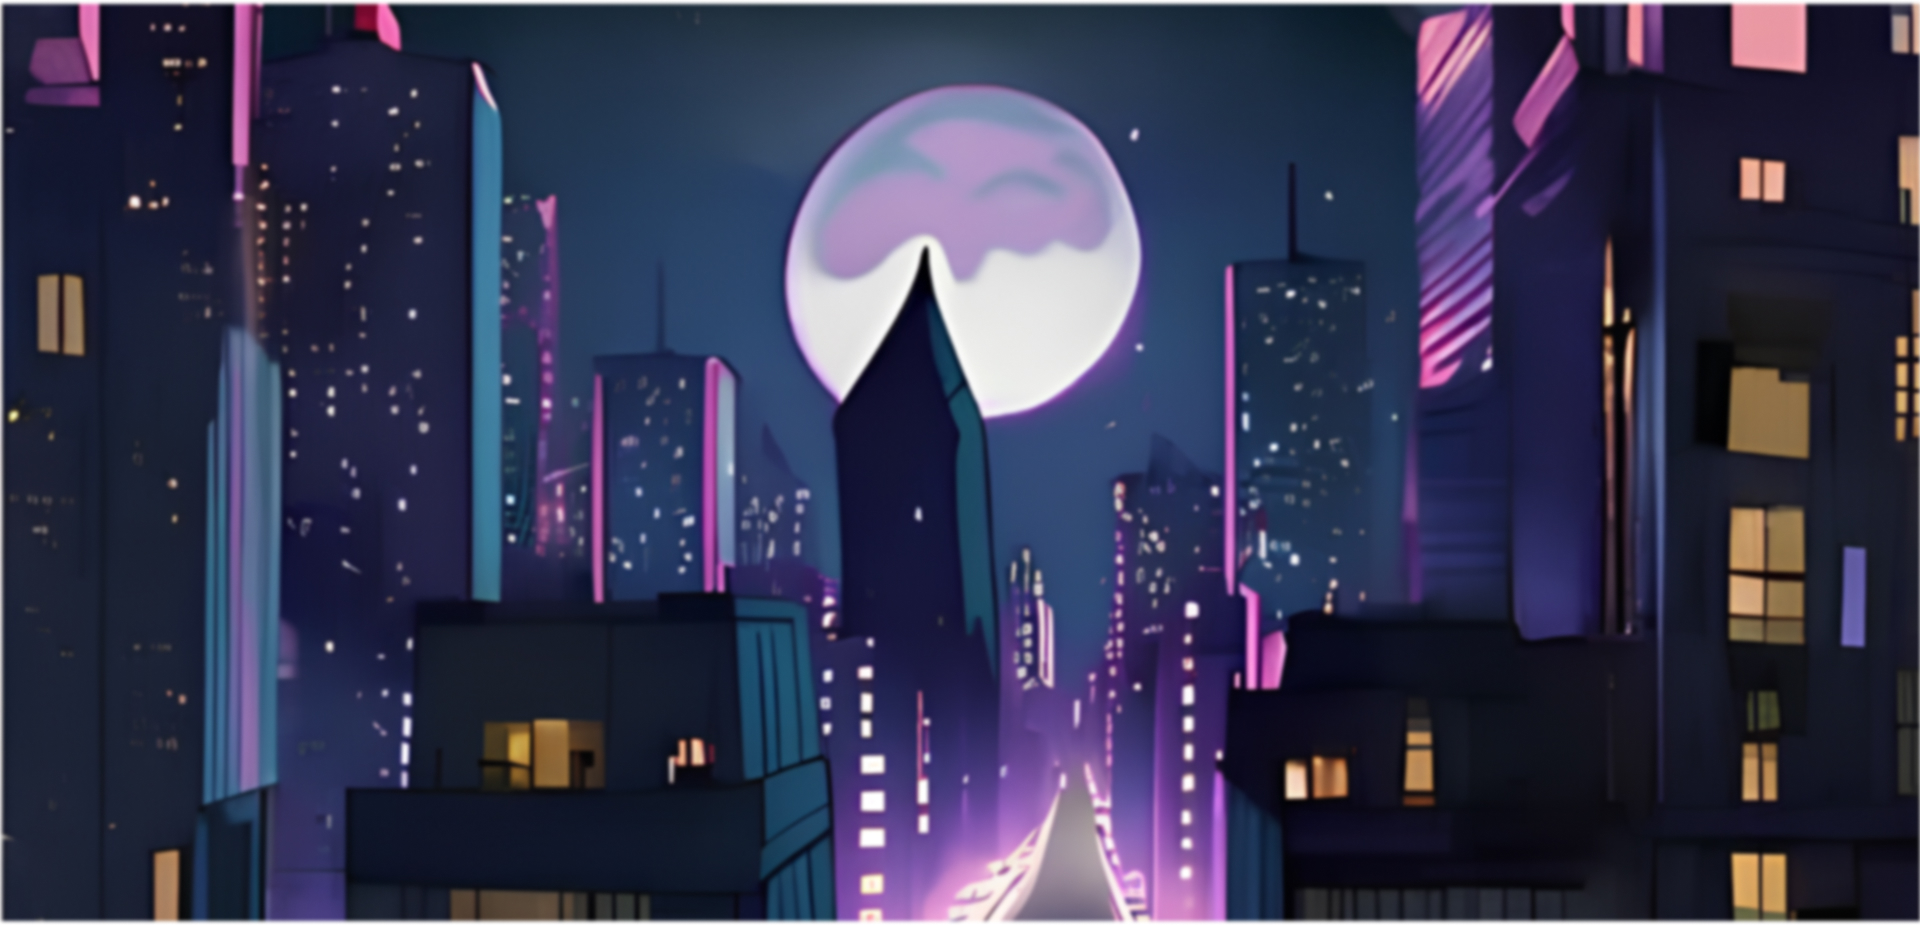
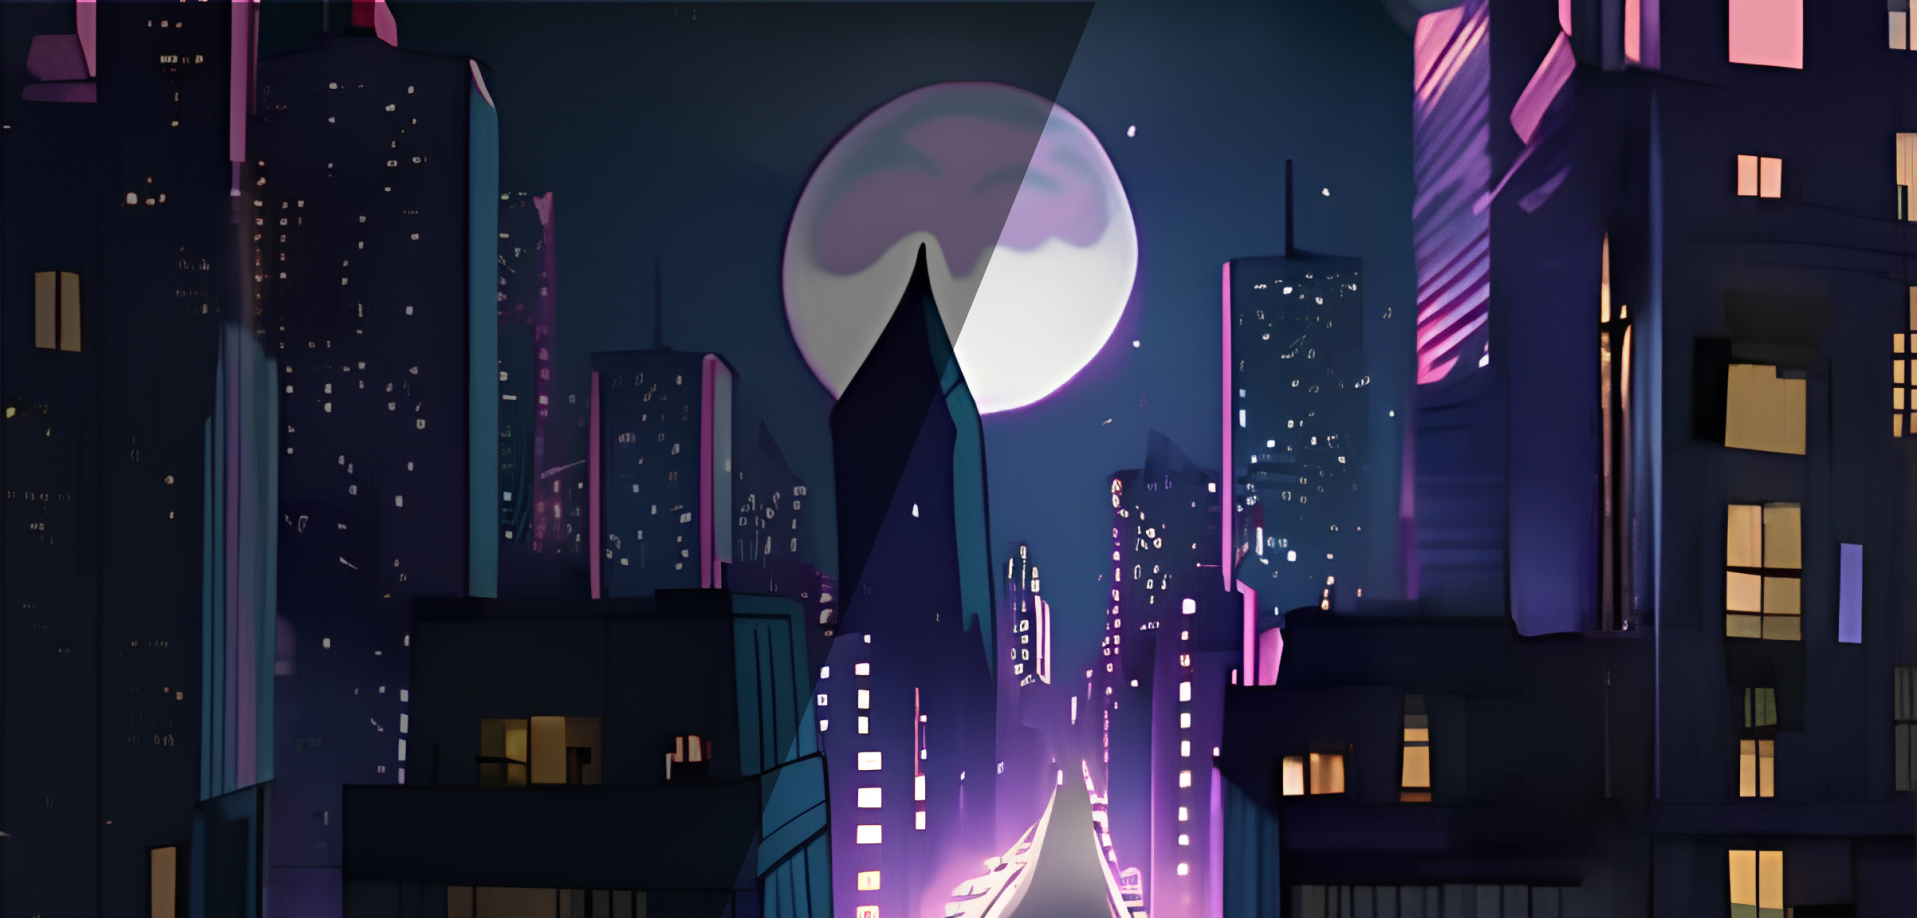
finish with general section

diff --git a/css/style.css b/css/style.css
@@ -51,23 +51,6 @@ body {
     transition: .3s all linear;
 }
 
-
-/* .menu__link::before {
-    content: "";
-    position: absolute;
-    bottom: -5px;
-    left: 0;
-    width: 50px;
-    height: 1px;
-    background-color: #fff;
-    opacity: 0;
-}
-
-.menu__link:hover::before {
-    opacity: 1;
-    transition: all linear .5s;
-} */
-
 .menu__li {
     margin-right: 50px;
 }
@@ -85,6 +68,7 @@ body {
     font-family: "Single Day";
     font-weight: 400;
     box-shadow:  8px 10px 9px 0px rgba(0,0,0,0.5);
+    animation: button 3s infinite; /* 1s - это продолжительность анимации */
 }
 
 .button:hover {
@@ -92,10 +76,120 @@ body {
     transition: .3s all linear;
 }
 
+@keyframes button {
+    0% { opacity: 1; }
+    50% { opacity: 0.5; }
+    100% { opacity: 1; }
+}
+
 .general__screen {
-    background-image: url(../img/backgrounds/general-bg.png);
-    height: 600px;
+    background-image: url(../img/backgrounds/general-bg.jpg);
+
     background-repeat: no-repeat;
     background-position: center;
-    filter: blur(3px);
+}
+
+.general__wrapper {
+    position: relative;
+}
+
+.genral__character {
+    position: absolute;
+    bottom: 0;
+    right: 0;
+    width: 500px;
+    height: 500px;
+}
+
+.general__text {
+    display: flex;
+    justify-content: center;
+    flex-direction: column;
+    padding: 90px 0;
+}
+
+.general__title {
+    font-size: 170px;
+    color: #FFFFFF;
+    font-family: "Single Day";
+    font-weight: 400;
+    margin-bottom: 40px;
+}
+
+.general__social {
+    display: flex;
+    align-items: center;
+    margin-bottom: 40px;
+}
+
+.telegram {
+    align-items: center;
+    display: flex;
+    margin-right: 50px;
+    color: #fff;
+    font-family: "Single Day";
+    font-weight: 400;
+    font-size: 24px;
+}
+
+.telegram__text:hover {
+    background-color: #7B50BF;
+    transition: all .5s linear;
+}
+
+.telegram__img {
+    width: 50px;
+    height: 50px;
+    margin-right: 15px;
+}
+
+.twitter {
+    display: flex;
+    align-items: center;
+    color: #fff;
+    font-family: "Single Day";
+    font-weight: 400;
+    font-size: 24px;
+}
+
+.twitter__text:hover {
+    background-color: #7B50BF;
+    transition: all .5s linear;
+}
+
+.twitter__img {
+    width: 50px;
+    height: 50px;
+    margin-right: 15px;
+}
+
+.general__connect-title {
+    font-size: 40px;
+    color: #FFFFFF;
+    font-family: "Single Day";
+    font-weight: 400;
+    margin-bottom: 20px;
+}
+
+.general__connect-input {
+    display: flex;
+    align-items: center;
+    justify-content: space-between;
+    width: 800px;
+    height: 65px;
+    border-radius: 10px;
+    background-color: #7B50BF;
+    padding: 20px;
+}
+
+.connect__adress {
+    font-size: 24px;
+    color: #fff;
+    font-family: "Single Day";
+    font-weight: 400;
+    opacity: 80%;
+}
+
+.general__connect-input-icon {
+    cursor: pointer;
 }

diff --git a/index.html b/index.html
@@ -10,6 +10,9 @@
     <link rel="preconnect" href="https://fonts.googleapis.com">
     <link rel="preconnect" href="https://fonts.gstatic.com" crossorigin>
     <link href="https://fonts.googleapis.com/css2?family=Single+Day&display=swap" rel="stylesheet">
+    <link rel="stylesheet" href="https://cdnjs.cloudflare.com/ajax/libs/aos/2.3.4/aos.css"
+        integrity="sha512-1cK78a1o+ht2JcaW6g8OXYwqpev9+6GqOkz9xmBN9iUUhIndKtxwILGWYOSibOKjLsEdjyjZvYDq/cZwNeak0w=="
+        crossorigin="anonymous" referrerpolicy="no-referrer" />
 </head>
 
 <body>
@@ -41,9 +44,42 @@
 
     <section class="general__screen">
         <div class="container">
-
+            <div class="general__wrapper">
+                <div class="general__text">
+                    <h1 data-aos="fade-up" data-aos-duration="2000" class="general__title" id="general__title">$BUTMAN
+                    </h1>
+                    <div class="general__social" data-aos="fade-up" data-aos-duration="2000">
+                        <a href="#" class="telegram">
+                            <img class="telegram__img" src="img/icons/telegram.png" alt="telegram">
+                            <p class="telegram__text">TELEGRAM</p>
+                        </a>
+                        <a href="#" class="twitter">
+                            <img class="twitter__img" src="img/icons/twitter.png" alt="twitter">
+                            <p class="twitter__text">TWITTER</p>
+                        </a>
+                    </div>
+                    <div class="general__connect" data-aos="fade-up" data-aos-duration="2000">
+                        <p class="general__connect-title">Contract address:</p>
+                        <div class="general__connect-input">
+                            <p class="connect__adress">cdjjvnjvndfsfffsfdcdvmdkvmdvkmvjvnsjovndo</p>
+                            <img src="img/icons/copy.png" alt="copy" class="general__connect-input-icon">
+                        </div>
+                    </div>
+                </div>
+                <img src="img/decorate/character.png" alt="character" class="genral__character" data-aos="fade-up"
+                    data-aos-duration="2000">
+            </div>
         </div>
     </section>
+
+    <script src="https://cdnjs.cloudflare.com/ajax/libs/aos/2.3.4/aos.js"
+        integrity="sha512-A7AYk1fGKX6S2SsHywmPkrnzTZHrgiVT7GcQkLGDe2ev0aWb8zejytzS8wjo7PGEXKqJOrjQ4oORtnimIRZBtw=="
+        crossorigin="anonymous" referrerpolicy="no-referrer"></script>
+    <script src="https://unpkg.com/typeit@8.7.1/dist/index.umd.js"></script>
+    <script src="https://cdnjs.cloudflare.com/ajax/libs/smoothscroll/1.4.10/SmoothScroll.min.js"
+        integrity="sha256-huW7yWl7tNfP7lGk46XE+Sp0nCotjzYodhVKlwaNeco=" crossorigin="anonymous"></script>
+    <script src="js/animations.js"></script>
+
 </body>
 
 </html>

diff --git a/js/animations.js b/js/animations.js
@@ -1,0 +1,35 @@
+AOS.init();
+
+// SCROLL
+SmoothScroll({
+  // Время скролла 400 = 0.4 секунды
+  animationTime: 2500,
+  // Размер шага в пикселях
+  stepSize: 75,
+
+  // Дополнительные настройки:
+
+  // Ускорение
+  accelerationDelta: 80,
+  // Максимальное ускорение
+  accelerationMax: 2,
+
+  // Поддержка клавиатуры
+  keyboardSupport: true,
+  // Шаг скролла стрелками на клавиатуре в пикселях
+  arrowScroll: 50,
+
+  // Pulse (less tweakable)
+  // ratio of "tail" to "acceleration"
+  pulseAlgorithm: true,
+  pulseScale: 4,
+  pulseNormalize: 1,
+
+  // Поддержка тачпада
+  touchpadSupport: true,
+});
+
+// new TypeIt("#general__title", {
+//   speed: 120,
+//   waitUntilVisible: true,
+// }).go();
